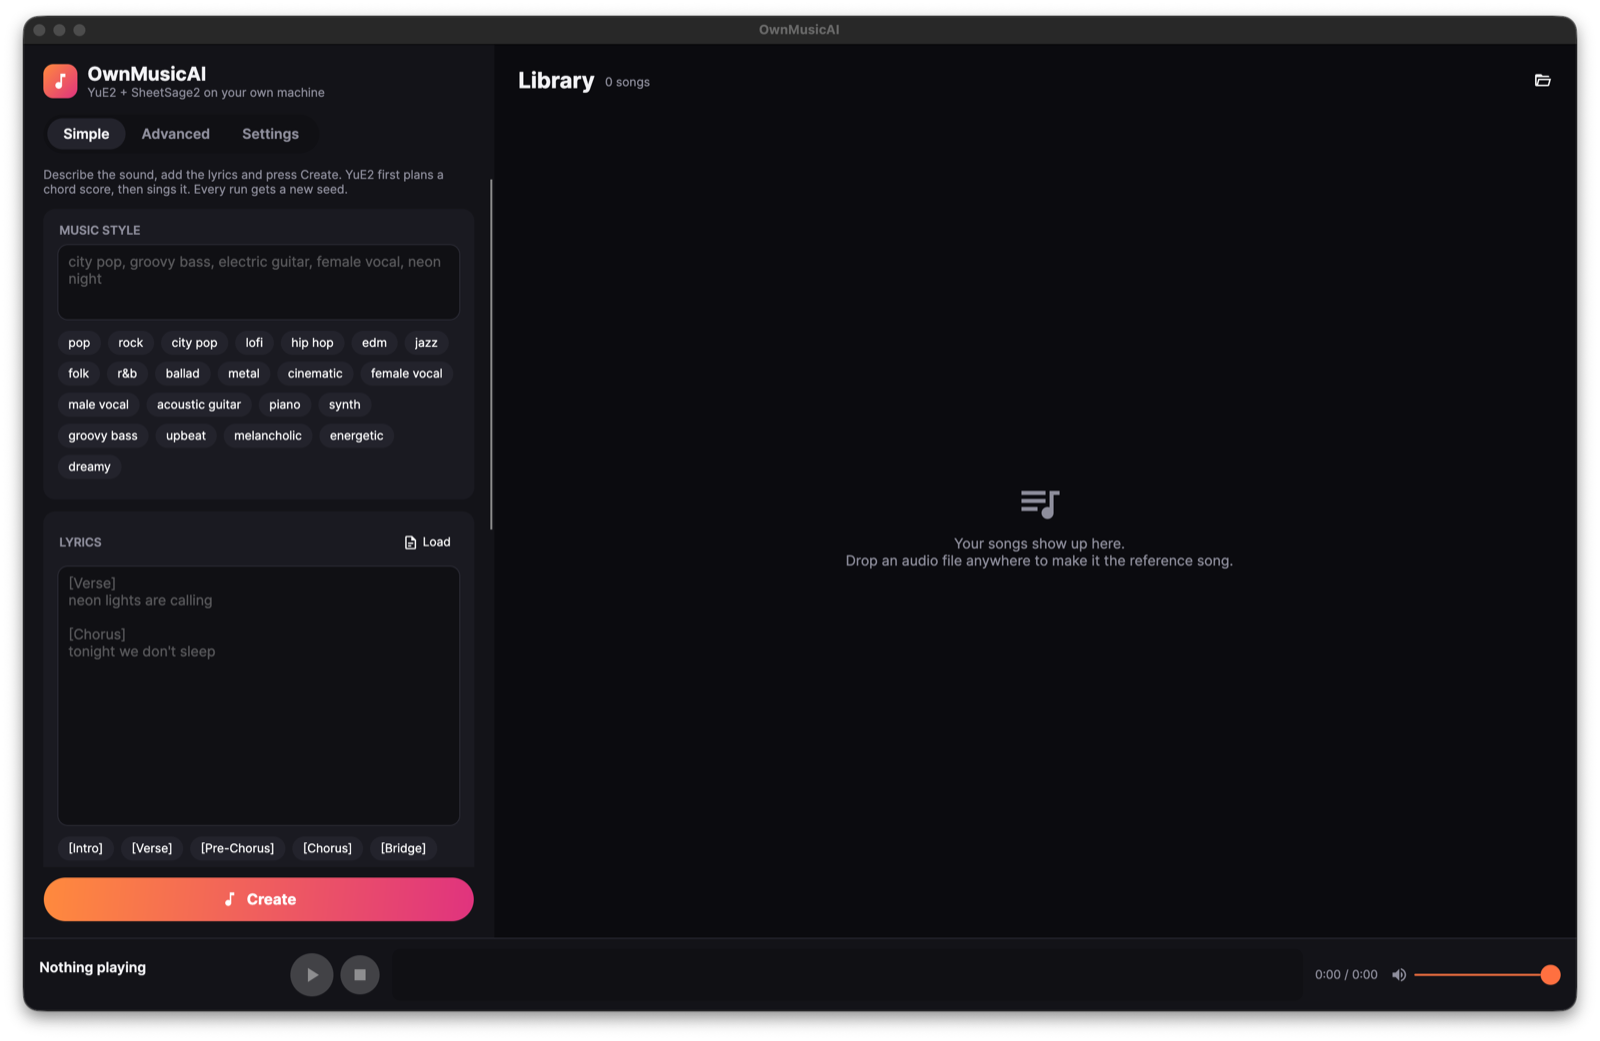
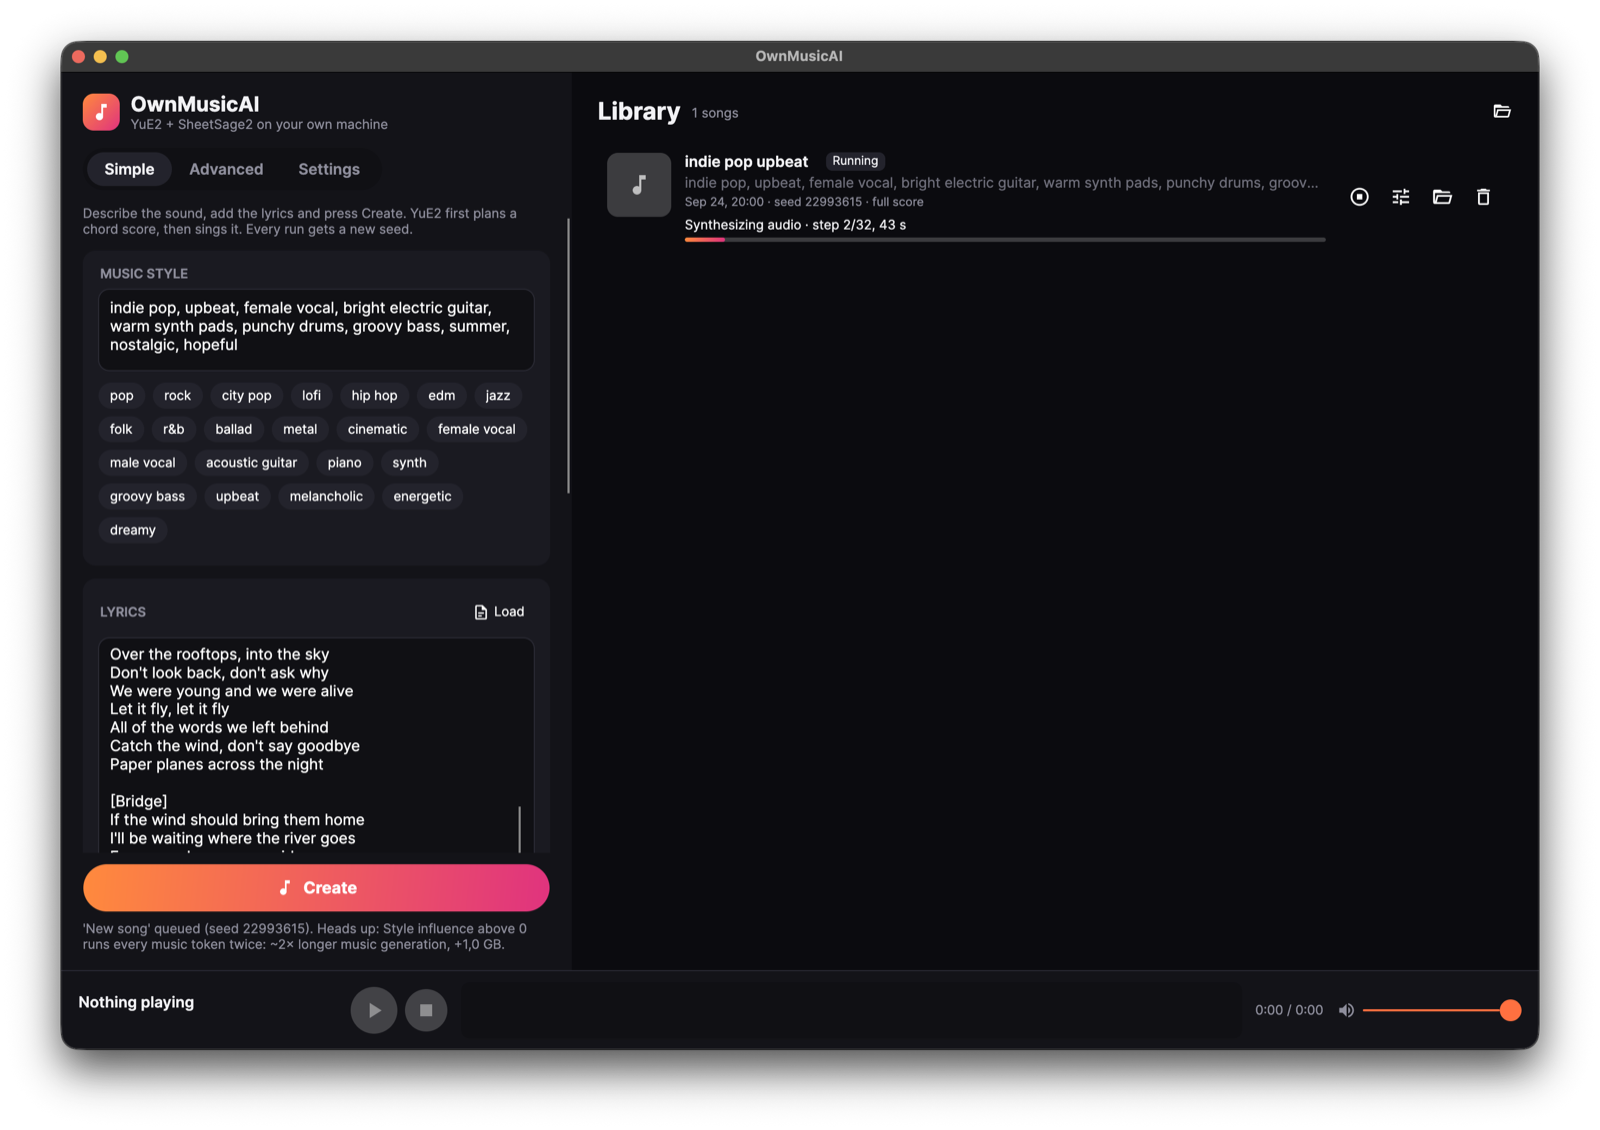
Update README screenshot to show a song being generated

diff --git a/README.md b/README.md
@@ -10,7 +10,7 @@ No Python, no cloud, no ONNX: both models run on native Rust engines built on
 [Avalonia 12](https://avaloniaui.net/), and playback / waveforms come from
 [OwnAudioSharp](https://github.com/ModernMube/OwnAudioSharp).
 
-![OwnMusicAI main window: the Simple create page on the left with style tags and lyrics, the song library on the right, the player bar at the bottom](docs/screenshot.png)
+![OwnMusicAI main window: the Simple page with the example style and lyrics filled in, and the song generating in the library with its live progress (synthesizing audio)](docs/screenshot.png)
 
 | | |
 |---|---|
